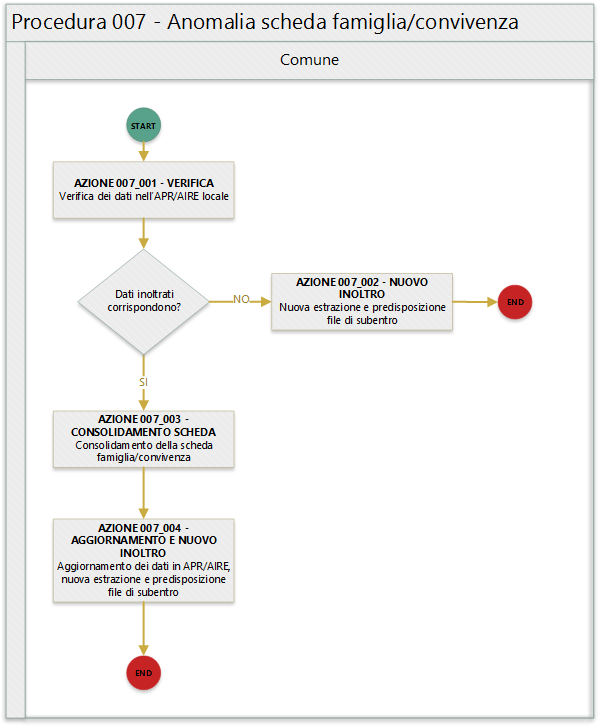
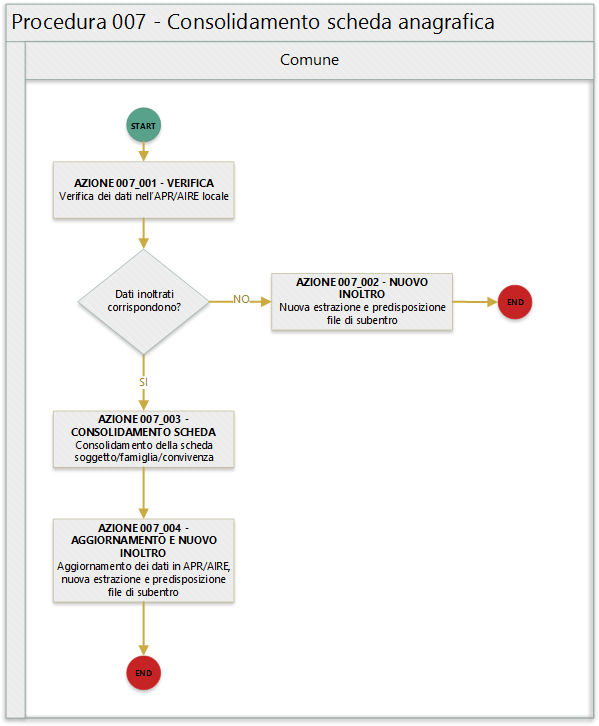
Aggiornato

Changed region(s): [[0.2705, 0.0, 0.8715, 0.0606], [0.1202, 0.6061, 0.3606, 0.6364]]

diff --git a/TAB01_ANOMALIE_ANPR.md b/TAB01_ANOMALIE_ANPR.md
@@ -11,11 +11,11 @@
 |	EA002	|	Soggetto presente in AT con  DA uguali a quelli del comune ma CF del comune assente	| warning non bloccante | [Procedura 002 - Soggetto presente in AT con CF non corrispondente](procedure/PROCEDURA_002.md) |
 |	EA003	|	Soggetto presente in AT con  DA uguali a quelli del comune ma CF diverso	| warning non bloccante | [Procedura 002 - Soggetto presente in AT con CF non corrispondente](procedure/PROCEDURA_002.md) |
 |	EA029	|	Codice fiscale calcolato dai  DA del comune non presente in AT	| warning non bloccante | [Procedura 003 - CF calcolato dai dati anagrafici non presente in AT](procedure/PROCEDURA_003.md) |
-|	EA030	|	CF di un soggetto residente  in piu' comuni	| warning non bloccante | [Procedura 005 - Duplicazione scheda](procedure/PROCEDURA_005.md) |
-|	EA031	|	CF di un soggetto residente  sia in Italia che all'estero (AIRE)	| warning da rimuovere prima del subentro | [Procedura 005 - Duplicazione scheda](procedure/PROCEDURA_005.md) |
-|	EA036	|	Soggetto registrato piu' volte sia con il CF base che con quello che risolve l'omocodia  	| warning non bloccante | [Procedura 005 - Duplicazione scheda](procedure/PROCEDURA_005.md) |
+|	EA030	|	CF di un soggetto residente  in piu' comuni	| warning non bloccante | [Procedura 005 - Duplicazione scheda anagrafica](procedure/PROCEDURA_005.md) |
+|	EA031	|	CF di un soggetto residente  sia in Italia che all'estero (AIRE)	| warning da rimuovere prima del subentro | [Procedura 005 - Duplicazione scheda anagrafica](procedure/PROCEDURA_005.md) |
+|	EA036	|	Soggetto registrato piu' volte sia con il CF base che con quello che risolve l'omocodia  	| warning non bloccante | [Procedura 005 - Duplicazione scheda anagrafica](procedure/PROCEDURA_005.md) |
 |	EA038	|	Soggetto con data di nascita non coincidente  con quella presente nel CF	| warning da rimuovere prima del subentro | [Procedura 004 - CF presente con errore nella data di nascita o sesso](procedure/PROCEDURA_004.md)  |
-|	EA040	|	Soggetto registrato piu' volte  sia con il CF collegato che con l'ultimo	| warning non bloccante | [Procedura 005 - Duplicazione scheda](procedure/PROCEDURA_005.md) |
+|	EA040	|	Soggetto registrato piu' volte  sia con il CF collegato che con l'ultimo	| warning non bloccante | [Procedura 005 - Duplicazione scheda anagrafica](procedure/PROCEDURA_005.md) |
 |	EA042	|	Soggetto con sesso non coincidente  con quello presente nel CF	| warning da rimuovere prima del subentro | [Procedura 004 - CF presente con errore nella data di nascita o sesso](procedure/PROCEDURA_004.md) |
 |	EA047	|	Soggetto presente  nell'archivio AIRE e nel MAE dei cittadini non residenti (IRREPERIBILI, RIMPATRIATI, DECEDUTI,  TRASFERITI)	| warning non bloccante | NON APPLICATA: in attesa di collegamento con MAE |
 |	EA048	|	Codice fiscale formalmente errato	| warning da rimuovere prima del subentro | [Procedura 001 - Codice Fiscale lunghezza errata o formalmente errato](procedure/PROCEDURA_001.md) |
@@ -49,12 +49,12 @@
 |	EC096	|	Comune/provincia di registrazione atto di cessazione/annullamento matrimonio [@] inesistente	| warning non bloccante | [Procedura 006 - Codice inesistente su tabella di riferimento](procedure/PROCEDURA_006.md) |
 |	EC164	|	Codice stato istruttoria non presente sulla tabella di riferimento [Codice-Tabella]	| warning non bloccante | [Procedura 006 - Codice inesistente su tabella di riferimento](procedure/PROCEDURA_006.md) |
 |	EC165	|	Codice tipo fine unione non presente sulla tabella di riferimento [Codice-Tabella]	| warning da rimuovere prima del subentro | [Procedura 006 - Codice inesistente su tabella di riferimento](procedure/PROCEDURA_006.md) |
-|	EF003	|	Scheda famiglia/convivenza duplicata in ANPR	| warning da rimuovere prima del subentro | [Procedura 005 - Duplicazione scheda](procedure/PROCEDURA_005.md) |
-|	EF004	|	Progressivo ordine gia' assegnato ad altro soggetto della scheda famiglia/convivenza	| warning non bloccante | [Procedura 007 - Duplicazione scheda](procedure/PROCEDURA_007.md) |
-|	EF008	|	Intestatario della scheda famiglia/convivenza assente	| warning da rimuovere prima del subentro | [Procedura 007 - Duplicazione scheda](procedure/PROCEDURA_007.md) |
-|	EF009	|	Intestatario della scheda famiglia/convivenza non univoco	| warning da rimuovere prima del subentro | [Procedura 007 - Duplicazione scheda](procedure/PROCEDURA_007.md) |
-|	EF010	|	Scheda famiglia senza alcun soggetto associato	| warning non bloccante | [Procedura 007 - Duplicazione scheda](procedure/PROCEDURA_007.md) |
-|	EHR41	|	I campi comune rilascio carta di identita' [@] e  codice consolato rilascio [@] devono essere valorizzati in alternativa	| warning non bloccante | |
+|	EF003	|	Scheda famiglia/convivenza duplicata in ANPR	| warning da rimuovere prima del subentro | [Procedura 005 - Duplicazione scheda anagrafica](procedure/PROCEDURA_005.md) |
+|	EF004	|	Progressivo ordine gia' assegnato ad altro soggetto della scheda famiglia/convivenza	| warning non bloccante | [Procedura 007 - Anomalia in scheda famiglia/convivenza](procedure/PROCEDURA_007.md) |
+|	EF008	|	Intestatario della scheda famiglia/convivenza assente	| warning da rimuovere prima del subentro | [Procedura 007 - Anomalia in scheda famiglia/convivenza](procedure/PROCEDURA_007.md) |
+|	EF009	|	Intestatario della scheda famiglia/convivenza non univoco	| warning da rimuovere prima del subentro | [Procedura 007 - Anomalia in scheda famiglia/convivenza](procedure/PROCEDURA_007.md) |
+|	EF010	|	Scheda famiglia senza alcun soggetto associato	| warning non bloccante | [Procedura 007 - Anomalia in scheda famiglia/convivenza](procedure/PROCEDURA_007.md) |
+|	EHR41	|	I campi comune rilascio carta di identita' [@] e  codice consolato rilascio [@] devono essere valorizzati in alternativa	| warning non bloccante | [Procedura 007 - Anomalia in scheda famiglia/convivenza](procedure/PROCEDURA_007.md) |
 |	EHR69	|	Anno dell'atto di nascita [@] non  valido	| warning da rimuovere prima del subentro | |
 |	EHR70	|	Anno dell'atto di morte [@] non  valido	| warning da rimuovere prima del subentro | |
 |	EHR73	|	Anno dell'atto di annullamento del matrimonio [@] non valido	| warning da rimuovere prima del subentro | |

diff --git a/procedure/PROCEDURA_005.md b/procedure/PROCEDURA_005.md
@@ -1,6 +1,6 @@
 	QUESTO DOCUMENTO É UNA BOZZA DI LAVORO
 
-# Procedura 005 - Duplicazione soggetto
+# Procedura 005 - Duplicazione scheda anagrafica
 
 > ritorna [*README*](../README.md) o [*Tabella anomalie ANPR*](../TAB01_ANOMALIE_ANPR.md)
 
